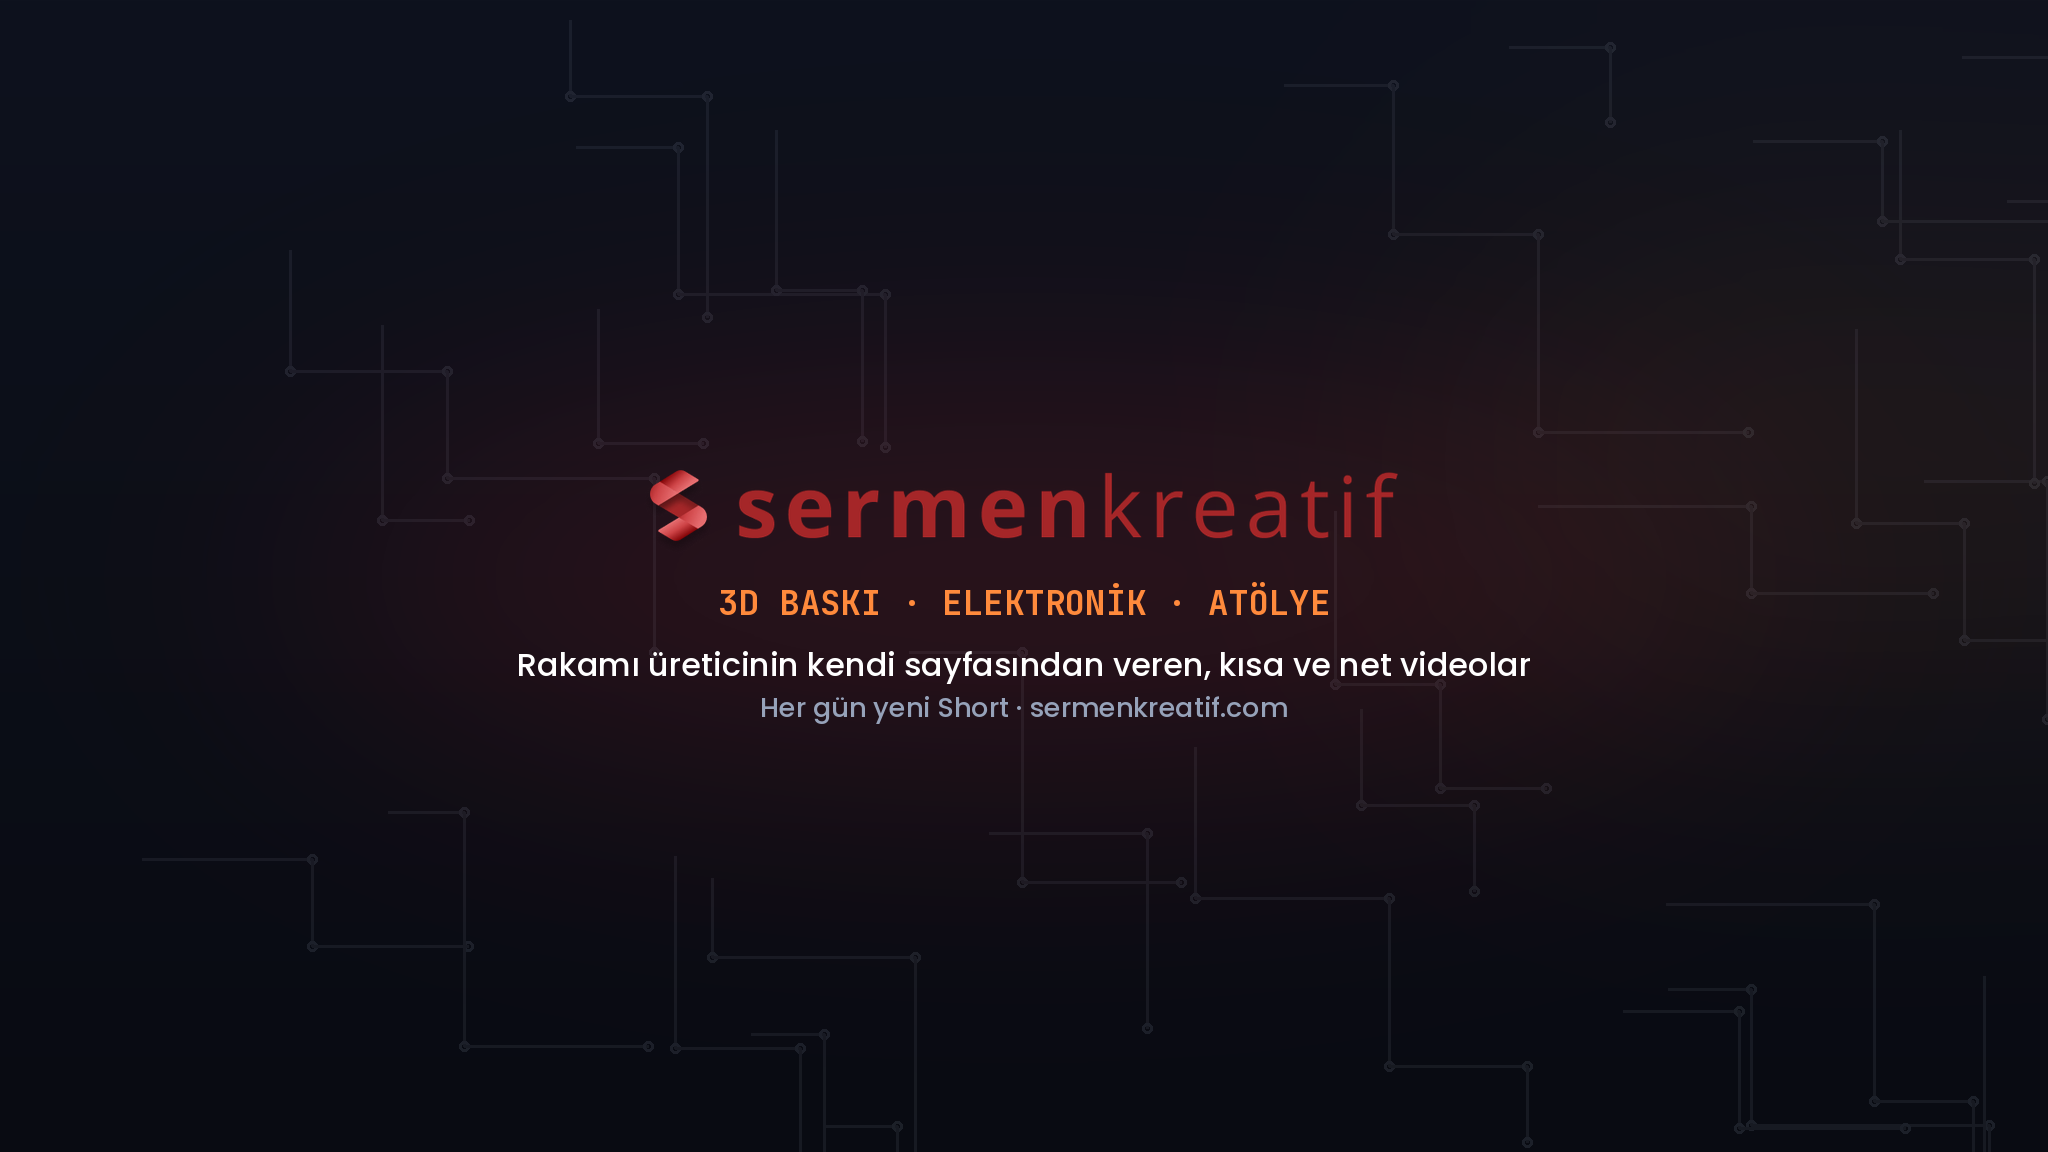
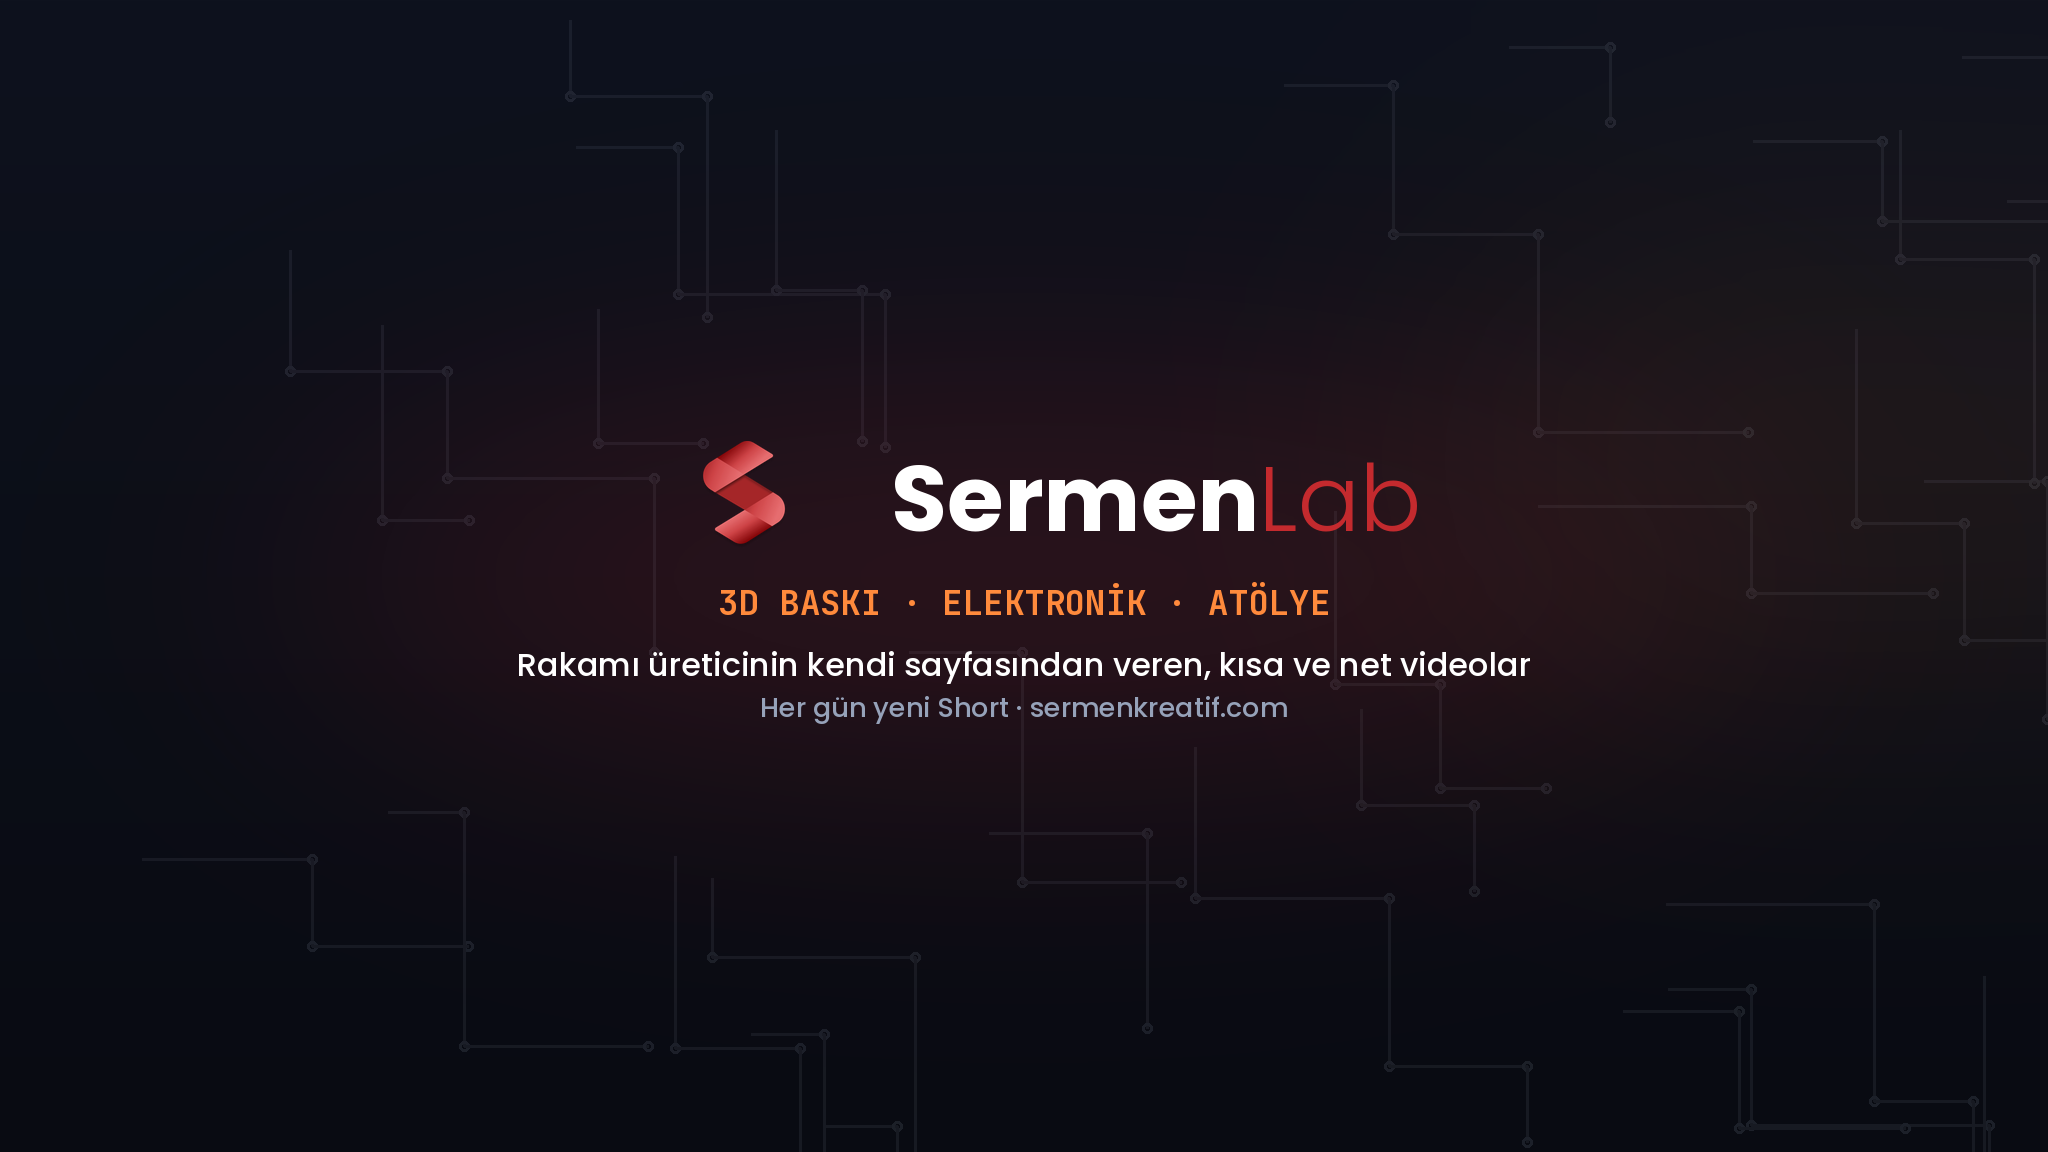
Kanal adı SermenLab
banner.png artık SermenLab yazısıyla üretiliyor, eski varyant kaldırıldı.
KANAL.md, PLAN.md ve youtube/DURUM.json yeni ada göre güncellendi;
hakkında metninin ilk satırı kanalı mağazaya bağlıyor
(sermenkreatif.com'un atölyesi), anahtar kelimelere sermenlab eklendi.

Claude-Session: https://claude.ai/code/session_01DAKoXHyqFjWGSzqcjwTyja

Changed region(s): [[0.3125, 0.375, 0.6875, 0.4688]]

diff --git a/arac/youtube_kanal.py b/arac/youtube_kanal.py
@@ -5,8 +5,8 @@
 
 Çıktılar `youtube/gorsel/` altına yazılıyor:
 
-- `banner.png`   2048 × 1152 — YouTube'un istediği boy. Yazı ve logo
-  ortadaki 1235 × 338'lik güvenli alanda; televizyonda kenarlar kırpılıyor,
+- `banner.png`   2048 × 1152 — YouTube'un istediği boy. SermenLab
+  yazısı ortadaki 1235 × 338'lik güvenli alanda; televizyonda kenarlar kırpılıyor,
   telefonda yalnız bu alan görünüyor.
 - `profil.png`   800 × 800 — daire kırpıldığında taşmasın diye marka
   işareti ortada ve kenarda bol boşluk var.
@@ -94,7 +94,7 @@ def kelime(img, orta, boy=96):
     d.text((x + w1, orta[1]), "Lab", font=f2, fill=KIRMIZI, anchor="lm")
 
 
-def banner(ad=None):
+def banner(ad="lab"):
     W, H = 2048, 1152
     GW, GH = 1235, 338                        # her ekranda görünen alan
     img = zemin(W, H)
@@ -123,7 +123,7 @@ def banner(ad=None):
 
     # güvenli alanın dışı: yalnız doku kalsın, yazı girmesin
     img.convert("RGB").save(os.path.join(
-        CIKTI, "banner-lab.png" if ad == "lab" else "banner.png"))
+        CIKTI, "banner.png" if ad == "lab" else "banner-eski.png"))
     return (W, H)
 
 
@@ -162,7 +162,6 @@ def main():
     os.makedirs(CIKTI, exist_ok=True)
     U.theme("3dbaski")
     print("banner.png   %dx%d" % banner())
-    print("banner-lab.png %dx%d" % banner("lab"))
     print("profil.png   %dx%d" % profil())
     print("filigran.png %dx%d" % filigran())
 

diff --git a/youtube/KANAL.md b/youtube/KANAL.md
@@ -1,8 +1,9 @@
 # Kanal kurulumu
 
-**Kanal:** Sermen Kreatif Teknolojileri
+**Kanal:** SermenLab
 **Kimlik:** `UCEwu_2EOMmS5AuRRulxVnag`
-**Kullanıcı adı:** @SermenKreatifTeknolojileri
+**Kullanıcı adı:** @sermenlab (alınacak; şu an
+@SermenKreatifTeknolojileri)
 **Adres:** https://www.youtube.com/channel/UCEwu_2EOMmS5AuRRulxVnag
 
 Görseller `youtube/gorsel/` altında, `arac/youtube_kanal.py` üretiyor.
@@ -37,20 +38,22 @@ Anahtarlar depoya girdikten sonra API ile **ben** yapabiliyorum:
 
 ## Künye
 
-**Kanal adı:** "Sermen Kreatif Teknolojileri" duruyor. Önerim
-**"Sermen Kreatif"** — mağaza ve Instagram'la aynı, videoda söylerken
-kısa. Ar-Ge/yazılım tarafı için yeni bir firma adı arıyorsun; o iş
-netleşince ayrı kanal açılır, bu kanal mağazanın kanalı olarak kalır.
+**Kanal adı:** SermenLab. Studio → Özelleştirme → Temel bilgiler →
+Ad alanına `SermenLab` yazılacak (şu an "Sermen Kreatif Teknolojileri").
 
-**Kullanıcı adı:** @SermenKreatifTeknolojileri uzun. Boşsa
-**@sermenkreatif** alınsın — Instagram'la aynı olması hem akılda kalıyor
-hem videoda "sermenkreatif" demek yetiyor. YouTube kullanıcı adı
-değişikliğinde sınır koyuyor, bir kerede doğrusunu al.
+**Kullanıcı adı:** `@sermenlab`. Aynı ekranda Tanıtıcı alanı; boş olup
+olmadığını alan anında söylüyor. Doluysa `@sermenlab3d`. Değiştirme hakkı
+sınırlı, bir kerede doğrusunu al.
+
+**Mağaza ile ilişkisi:** SermenLab içerik yüzü, satış sermenkreatif.com'da.
+Banner'da, hakkında metninde ve her video açıklamasında mağaza adresi
+geçiyor; ikisi birbirine bağlı kalıyor.
 
 **Hakkında** (Kanalı özelleştir → Temel bilgiler → Açıklama):
 
 ```
-3D baskı, filament ve elektronik tarafında işe yarayan kısa videolar.
+SermenLab — 3D baskı, filament ve elektronik tarafında işe yarayan kısa
+videolar. sermenkreatif.com'un atölyesi.
 
 Burada her rakam üreticinin kendi sayfasından geliyor: baskı alanı, hız,
 sıcaklık, akım. Tahmin, "bence" ve kulaktan dolma yok; bir bilgi
@@ -68,9 +71,9 @@ Her gün yeni bir Short. Ürünler: sermenkreatif.com
 **Kanal anahtar kelimeleri** (Ayarlar → Kanal → Temel bilgiler):
 
 ```
-3d baskı, 3d yazıcı, filament, pla, petg, abs, tpu, creality, bambu lab,
-sunlu, polymaker, elektronik, esp32, raspberry pi, arduino, maker,
-türkçe 3d baskı, 3d baskı türkiye
+sermenlab, sermen kreatif, 3d baskı, 3d yazıcı, filament, pla, petg, abs,
+tpu, creality, bambu lab, sunlu, polymaker, elektronik, esp32,
+raspberry pi, arduino, maker, türkçe 3d baskı, 3d baskı türkiye
 ```
 
 **Ülke:** Türkiye · **Dil:** Türkçe
@@ -149,8 +152,8 @@ kütüphanesinden müzik eklemek (elle, yükleme sonrası), (c) seslendirme.
 
 ## Sıra
 
-1. **Sende:** kanal adını kısalt, kullanıcı adını al, profil fotoğrafını
-   yükle (`youtube/gorsel/profil.png`).
+1. **Sende:** kanal adını `SermenLab` yap, `@sermenlab` tanıtıcısını al,
+   profil fotoğrafını yükle (`youtube/gorsel/profil.png`).
 2. **Sende:** yükleme varsayılanlarını ayarla, beş oynatma listesini aç.
 3. **Sende:** `otomasyon/YOUTUBE-KURULUM.md` adımlarıyla üç anahtarı
    depoya koy.

diff --git a/youtube/PLAN.md b/youtube/PLAN.md
@@ -1,6 +1,6 @@
 # YouTube — kendi yapısı
 
-Kanal: **@sermenkreatif**. Günde **1 Shorts**, saat **18:20**.
+Kanal: **SermenLab** (@sermenlab). Günde **1 Shorts**, saat **18:20**.
 Kuyruk `youtube/DURUM.json` içinde ve Instagram kuyruğundan ayrı:
 video aynı üretim hattından çıkıyor (`<klasör>/reels.mp4`), ama hangi gün
 hangi video, başlık ve açıklama burada belirleniyor.
